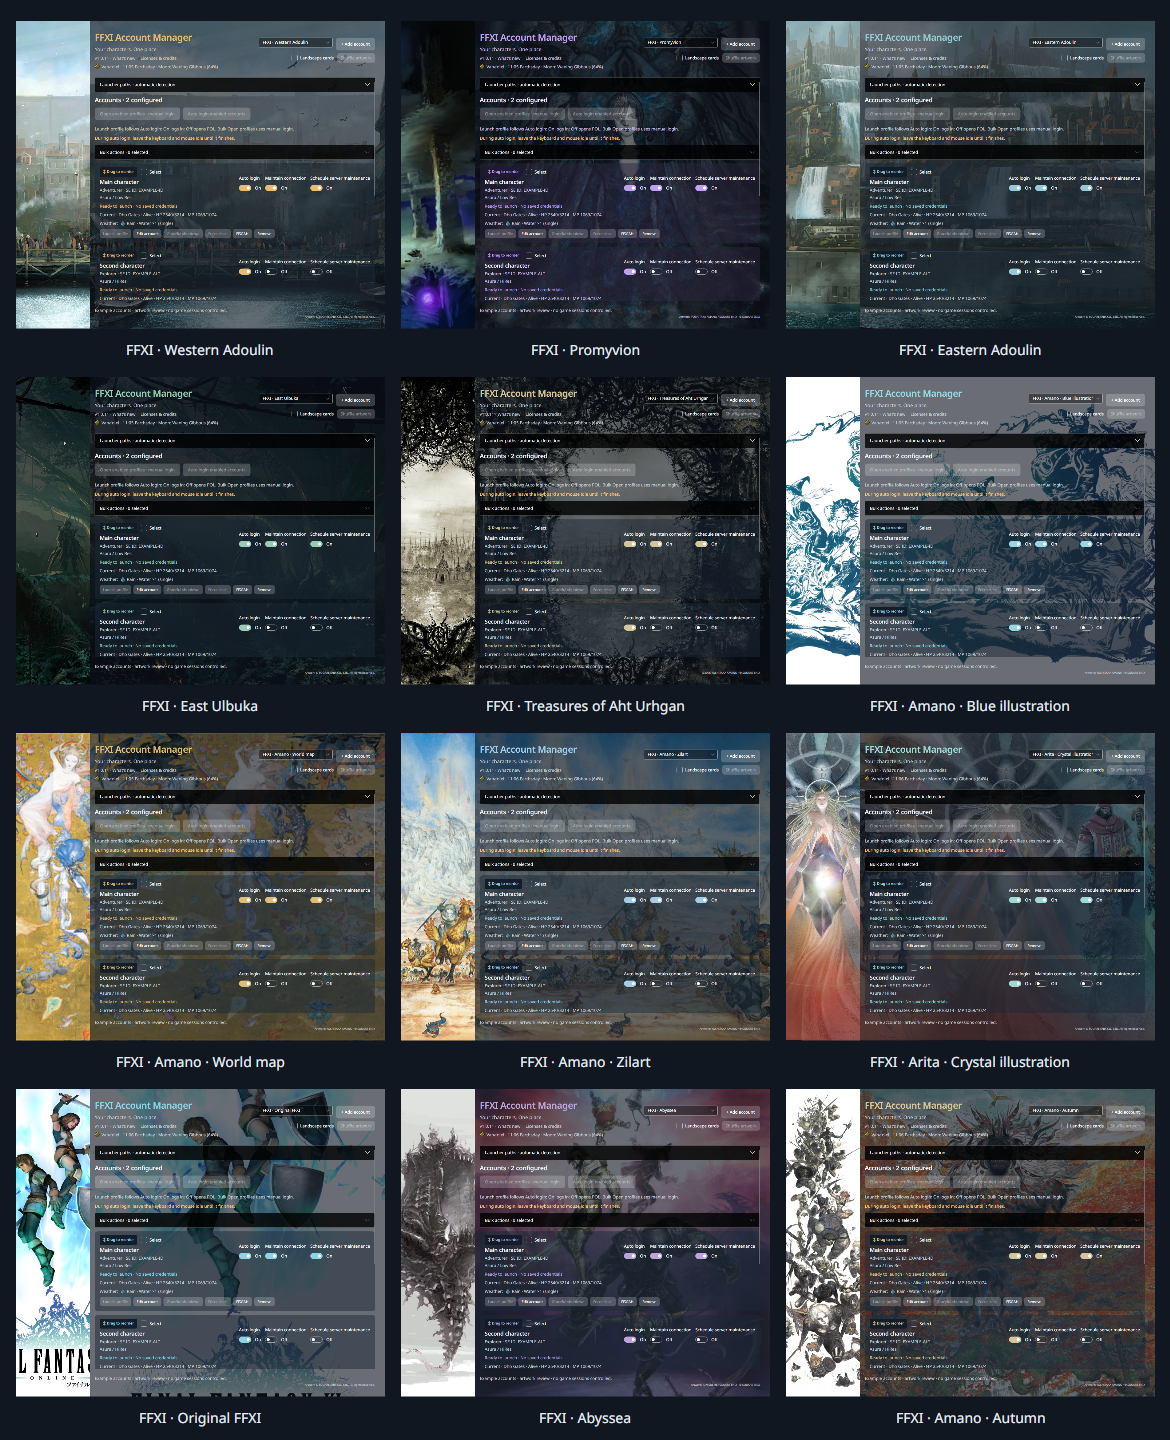
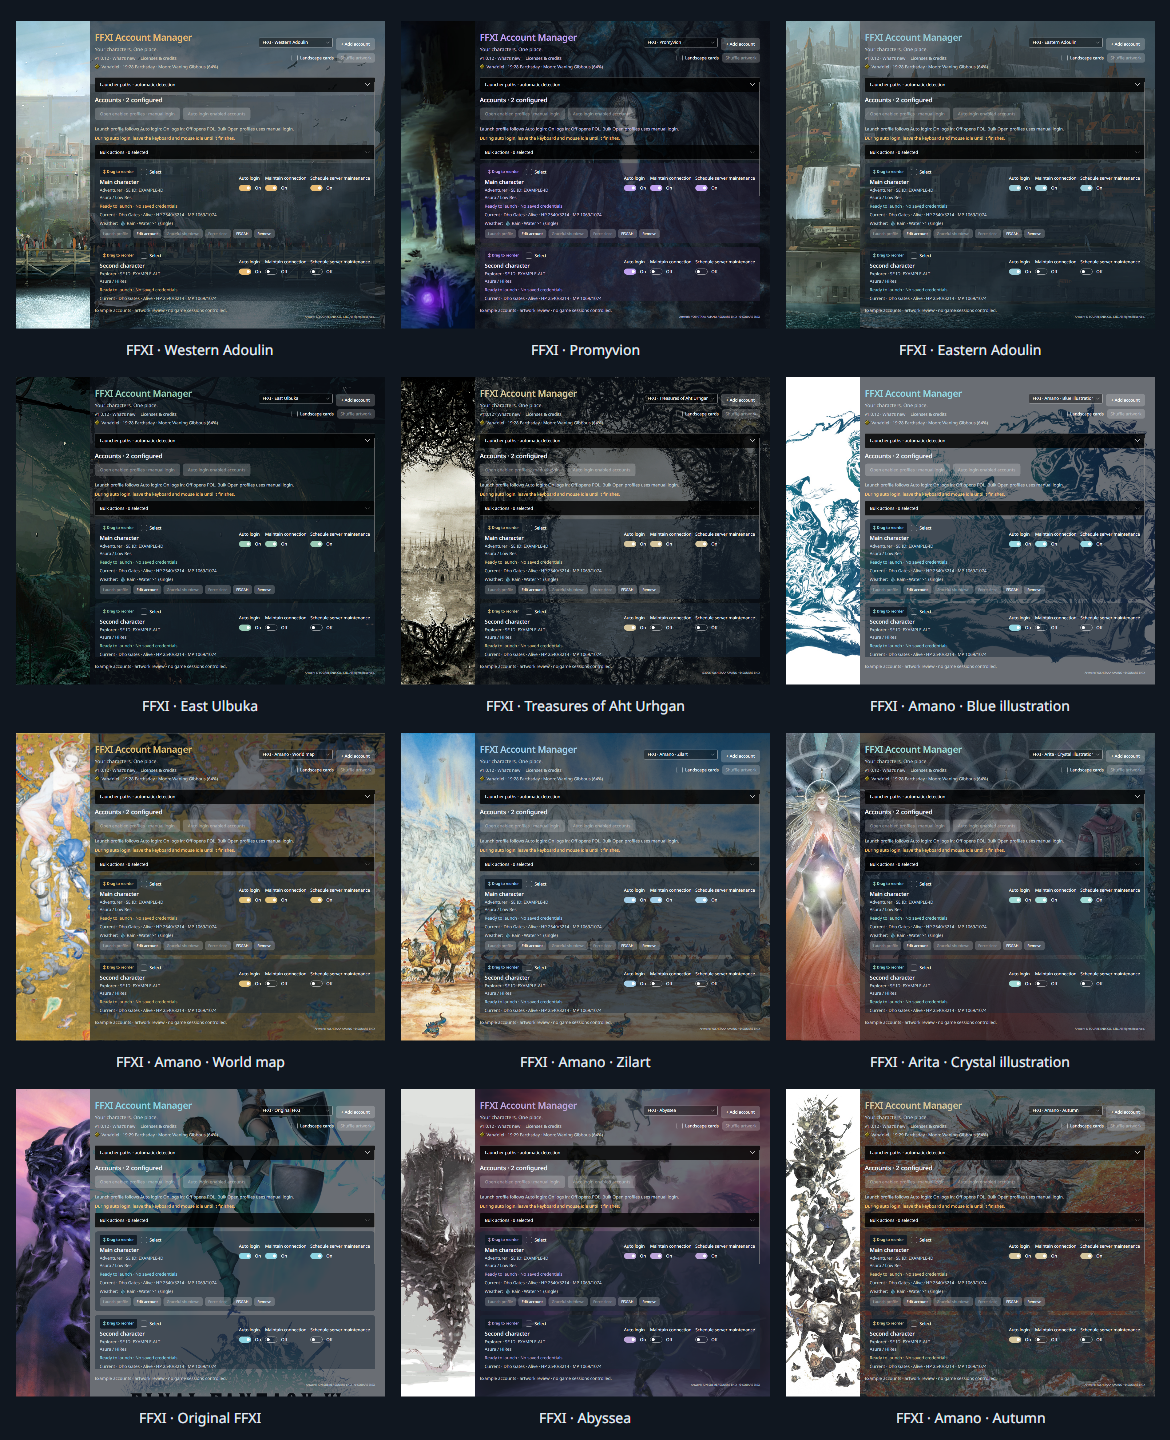
Pair Original FFXI with approved anniversary character artwork

Changed region(s): [[0.0, 0.75, 0.0923, 0.9688]]

diff --git a/src/FFXILauncher.Desktop/ThemeCatalog.cs b/src/FFXILauncher.Desktop/ThemeCatalog.cs
@@ -27,7 +27,7 @@ public static class ThemeCatalog
         new("amano-map", "FFXI · Amano · World map", "#101820", "#E51B2937", "#F0111C27", "#E7EDF2", "#C3CFD8", "#DEBE76", Artwork: "Amano0.jpg", Portrait: false, Credit: "Artwork: YOSHITAKA AMANO · © SQUARE ENIX"),
         new("amano-zilart", "FFXI · Amano · Zilart", "#101820", "#E51B2937", "#F0111C27", "#E7EDF2", "#C3CFD8", "#A1CDE8", Artwork: "Amano1.jpg", Portrait: false, Credit: "Artwork: YOSHITAKA AMANO · © SQUARE ENIX"),
         new("arita-crystal", "FFXI · Arita · Crystal illustration", "#101820", "#E51B2937", "#F0111C27", "#E7EDF2", "#C3CFD8", "#9FD9D4", Artwork: "Arita0.jpg", Portrait: false),
-        new("ffxi-original", "FFXI · Original FFXI", "#101820", "#E51B2937", "#F0111C27", "#E7EDF2", "#C3CFD8", "#8CD4E3", Artwork: "Illustration0.jpg", Portrait: true),
+        new("ffxi-original", "FFXI · Original FFXI", "#101820", "#E51B2937", "#F0111C27", "#E7EDF2", "#C3CFD8", "#8CD4E3", Artwork: "Illustration0.jpg", Portrait: true, SideArtwork: "Anniversary2.jpg", SideFocus: .40, Credit: "Artwork: JUN SUEMI / SQUARE ENIX · © SQUARE ENIX"),
         new("abyssea", "FFXI · Abyssea", "#101820", "#E51B2937", "#F0111C27", "#E7EDF2", "#C3CFD8", "#BDA5D9", Artwork: "Illustration6.jpg", Portrait: true, SideArtwork: "Maw.jpg", Credit: "Artwork: JUN SUEMI / SQUARE ENIX · © SQUARE ENIX"),
         new("amano-autumn", "FFXI · Amano · Autumn", "#101820", "#E51B2937", "#F0111C27", "#E7EDF2", "#C3CFD8", "#D5C59D", Artwork: "Amano10.jpg", Portrait: true, Credit: "Artwork: YOSHITAKA AMANO · © SQUARE ENIX", SideArtwork: "Amano12.jpg", BackgroundVerticalFocus: 0)
     };

diff --git a/tests/FFXILauncher.Desktop.Smoke/Program.cs b/tests/FFXILauncher.Desktop.Smoke/Program.cs
@@ -433,6 +433,7 @@ Console.WriteLine("PASS: configured dashboard and maintenance persistence.");
 if (ThemeCatalog.All.Count != 16 || ThemeCatalog.All.Count(t => t.Artwork != null) != 12) throw new Exception("Theme picker must contain four dark UI and twelve artwork themes.");
 if (ThemeCatalog.All.Any(t => t.Id == "maw") || ThemeCatalog.Resolve("maw") is not { Id: "abyssea", SideArtwork: "Maw.jpg", Artwork: "Illustration6.jpg" }) throw new Exception("Existing Cavernous Maw selections must resolve to the merged Abyssea theme.");
 if (ThemeCatalog.Resolve("rakaznar") is not { Artwork: "Amano3.jpg", SideArtwork: "Promyvion.jpg" }) throw new Exception("Promyvion must retain its zone illustration on the left and use the chosen primary background.");
+if (ThemeCatalog.Resolve("ffxi-original") is not { Artwork: "Illustration0.jpg", SideArtwork: "Anniversary2.jpg", SideFocus: .40 }) throw new Exception("Original FFXI must preserve the approved paired artwork and character crop.");
 var themePicker = configured.FindControl<ComboBox>("ThemePicker")!;
 foreach (var theme in ThemeCatalog.All)
 {

diff --git a/README.md b/README.md
@@ -10,7 +10,7 @@ These screenshots show the actual application UI with example accounts and no sa
 
 ![Account dashboard with an FFXI artwork theme](docs/images/dashboard.png)
 
-Choose one of four dark UI themes or 12 artwork themes, including Abyssea. Expanded windows show a tall cropped art panel with a background behind the accounts; Amano · Autumn, Abyssea and Promyvion pair two different images. Disable Landscape cards for more translucent account cards; enable it for prominent landscape images with minimal shading. Shuffle uses every image before repeating and avoids duplicate visible cards while enough images are available. Images keep their aspect ratio. Drag the handle on each card to reorder accounts. **Auto login** controls whether a character's Launch profile button completes login. **Maintain connection** enables recovery; **Schedule server maintenance** plans downtime around applicable notices.
+Choose one of four dark UI themes or 12 artwork themes, including Abyssea. Expanded windows show a tall cropped art panel with a background behind the accounts; Amano · Autumn, Abyssea, Promyvion and Original FFXI pair two different images. Disable Landscape cards for more translucent account cards; enable it for prominent landscape images with minimal shading. Shuffle uses every image before repeating and avoids duplicate visible cards while enough images are available. Images keep their aspect ratio. Drag the handle on each card to reorder accounts. **Auto login** controls whether a character's Launch profile button completes login. **Maintain connection** enables recovery; **Schedule server maintenance** plans downtime around applicable notices.
 
 [See every theme at full size](docs/themes/README.md), including the narrow-window Abyssea view.
 

diff --git a/src/FFXILauncher.Desktop/Assets/Themes/SOURCES.md b/src/FFXILauncher.Desktop/Assets/Themes/SOURCES.md
@@ -20,6 +20,7 @@ URL root: https://we-are-vanadiel.finalfantasyxi.com/assets/images/gallery/seaso
 | Amano3.jpg | 1/vol/1/3.jpg |
 | Amano5.jpg | 1/vol/1/5.jpg |
 | Arita0.jpg | 8/vol/3/0.jpg |
+| Anniversary2.jpg | 6/vol/1/2.jpg |
 | Illustration0.jpg | 2/vol/1/0.jpg |
 | Illustration6.jpg | 2/vol/1/6.jpg |
 
@@ -27,6 +28,7 @@ URL root: https://we-are-vanadiel.finalfantasyxi.com/assets/images/gallery/seaso
 Amano5: Treasures of Aht Urhgan Artwork, ©2006 YOSHITAKA AMANO.
 Other Amano pieces: Yoshitaka Amano; refer to the individual gallery credit.
 Illustration6: Abyssea Trilogy, illustrator Jun Suemi.
+Anniversary2: 10th anniversary illustration (2012), illustrator Jun Suemi.
 Arita0: illustrator Mitsuhiro Arita.
 
 Art remains owned by its respective copyright holders. Theme and card rendering

diff --git a/docs/themes/README.md b/docs/themes/README.md
@@ -1,6 +1,6 @@
-# Theme previews — v1.0.11
+# Theme previews — v1.0.12
 
-Actual application renders with example accounts. No real credentials or game sessions are used. Landscape cards are off to show the translucent surfaces. Expanded artwork views use aspect-preserving crops in the left panel and right background; Amano · Autumn, Abyssea and Promyvion pair two distinct images.
+Actual application renders with example accounts. No real credentials or game sessions are used. Landscape cards are off to show the translucent surfaces. Expanded artwork views use aspect-preserving crops in the left panel and right background; Amano · Autumn, Abyssea, Promyvion and Original FFXI pair two distinct images.
 
 ## Artwork themes
 

diff --git a/CHANGELOG.md b/CHANGELOG.md
@@ -1,5 +1,10 @@
 # Release notes
 
+## 1.0.12
+
+- Original FFXI now pairs the approved anniversary character illustration on the left with its original artwork on the right.
+- The left crop focuses on the character’s face and upper body while preserving image proportions.
+
 ## 1.0.11
 
 - Promyvion now uses the selected Amano illustration as its primary right background, retaining the original zone artwork on the left.
